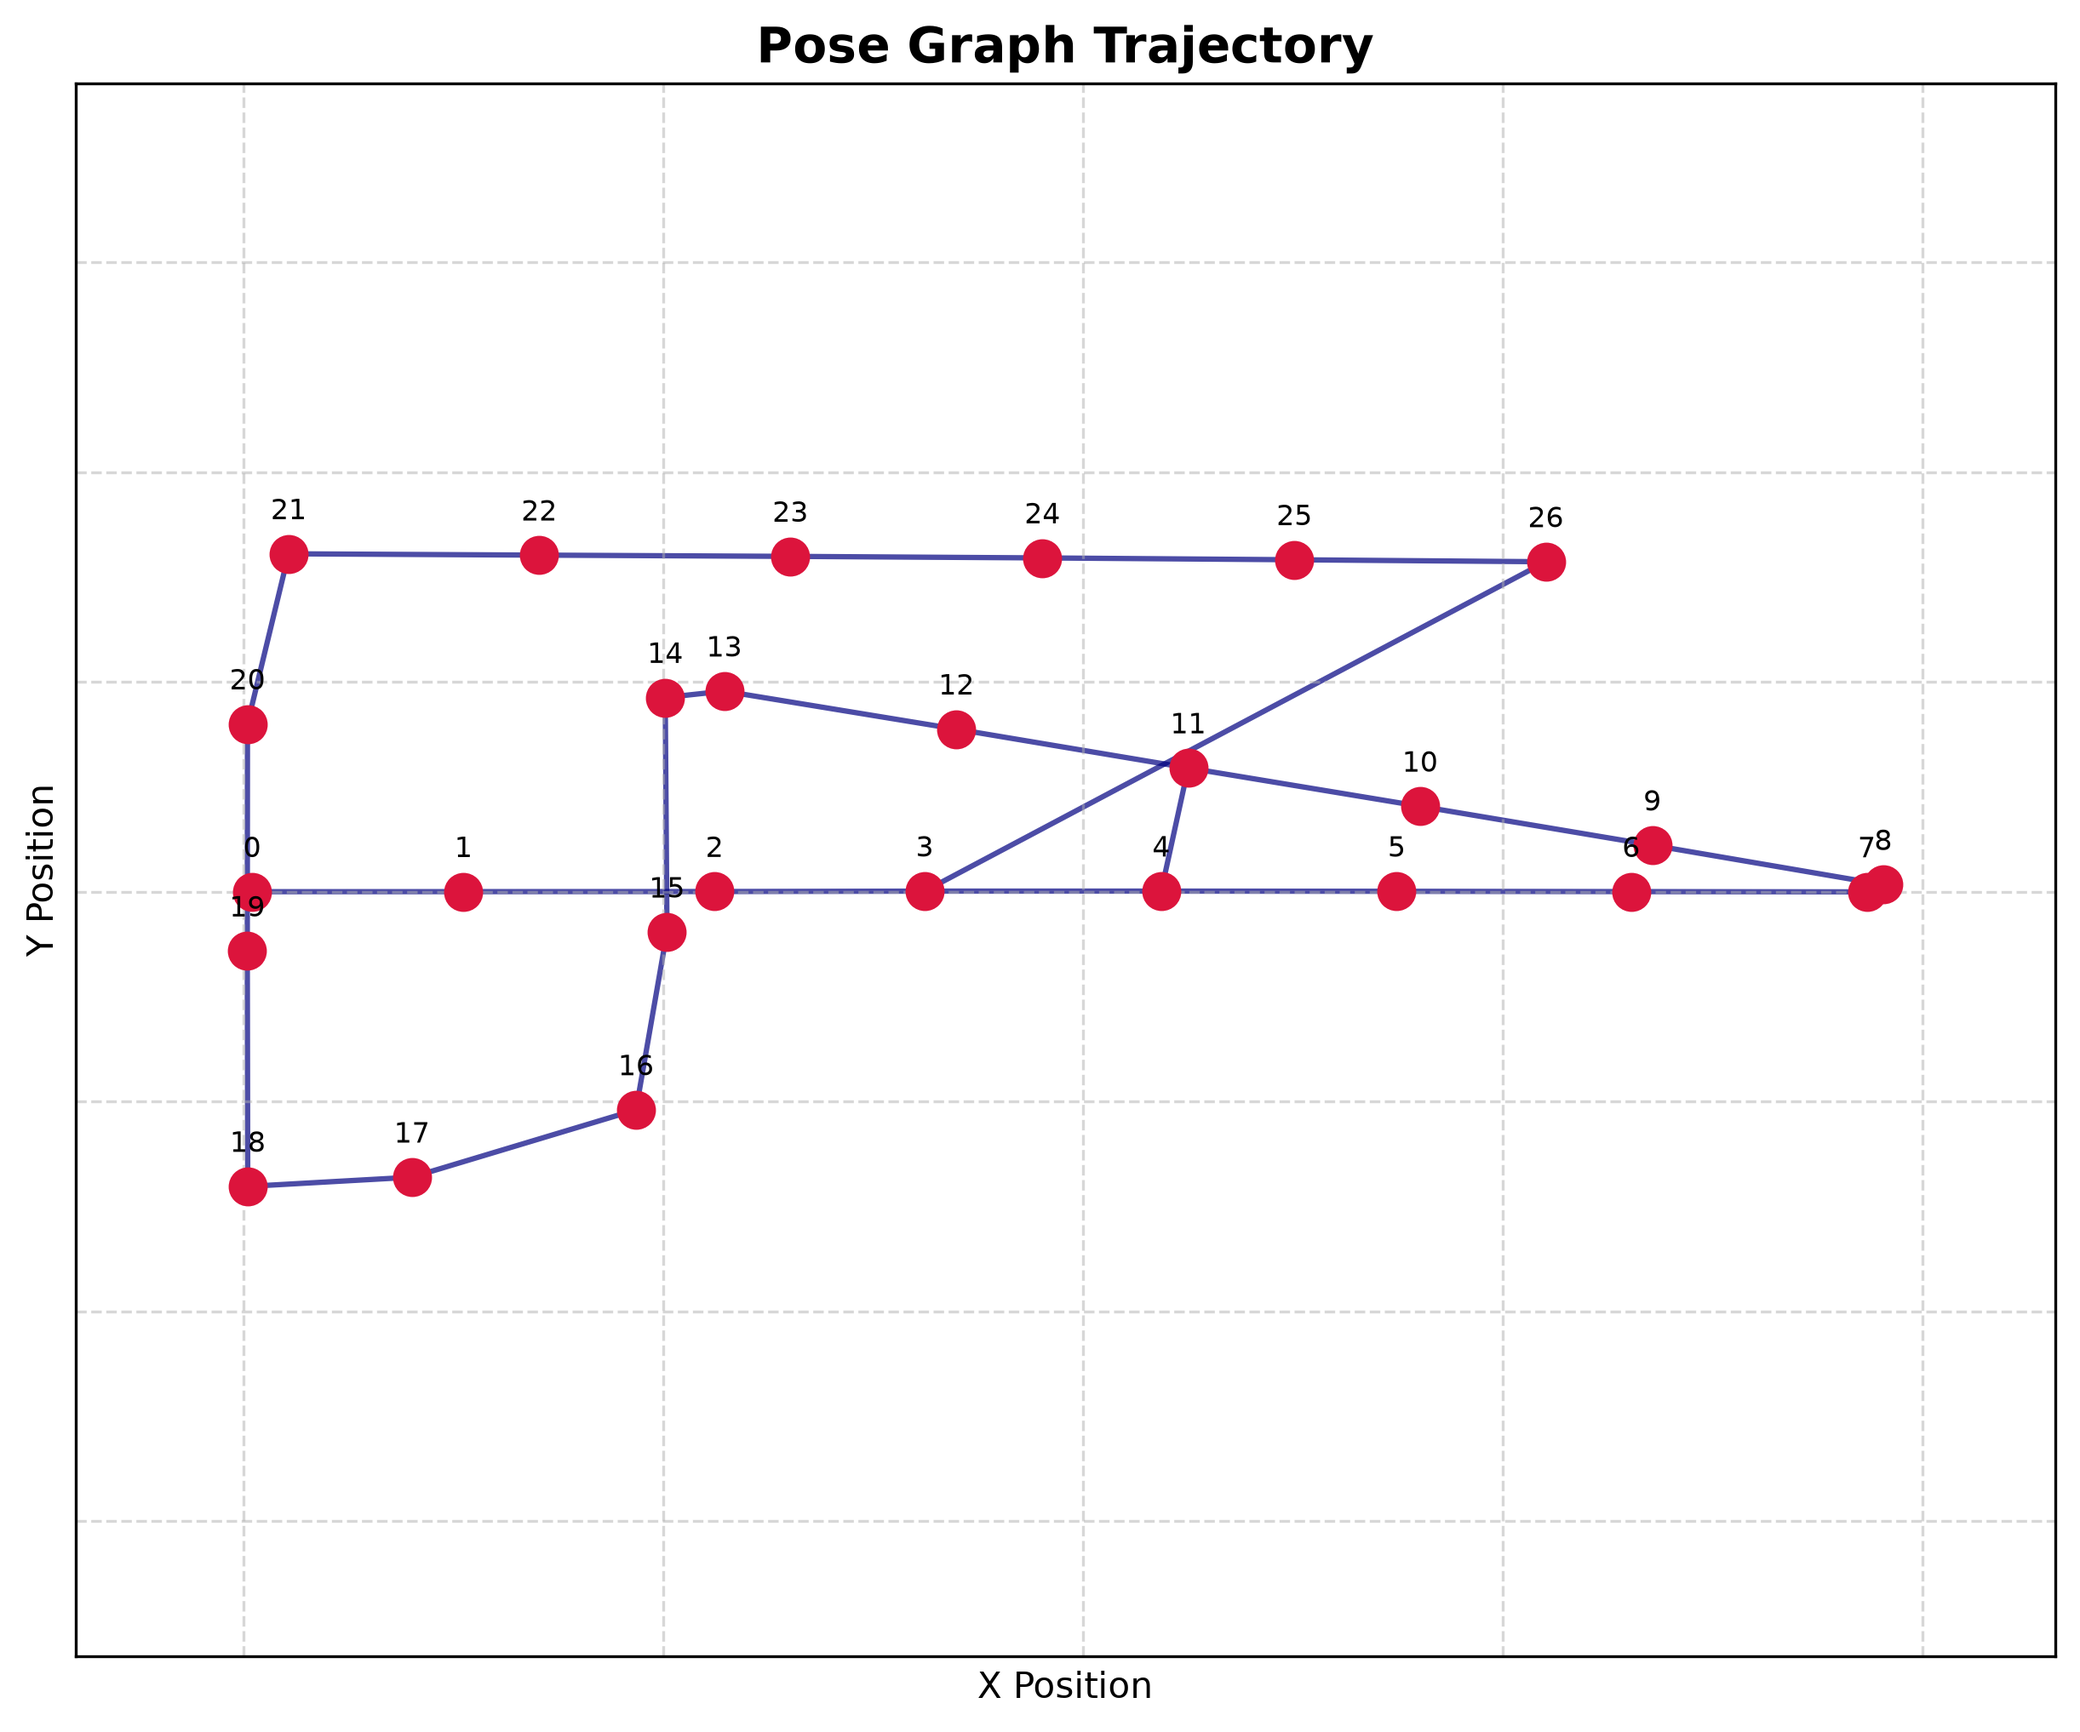
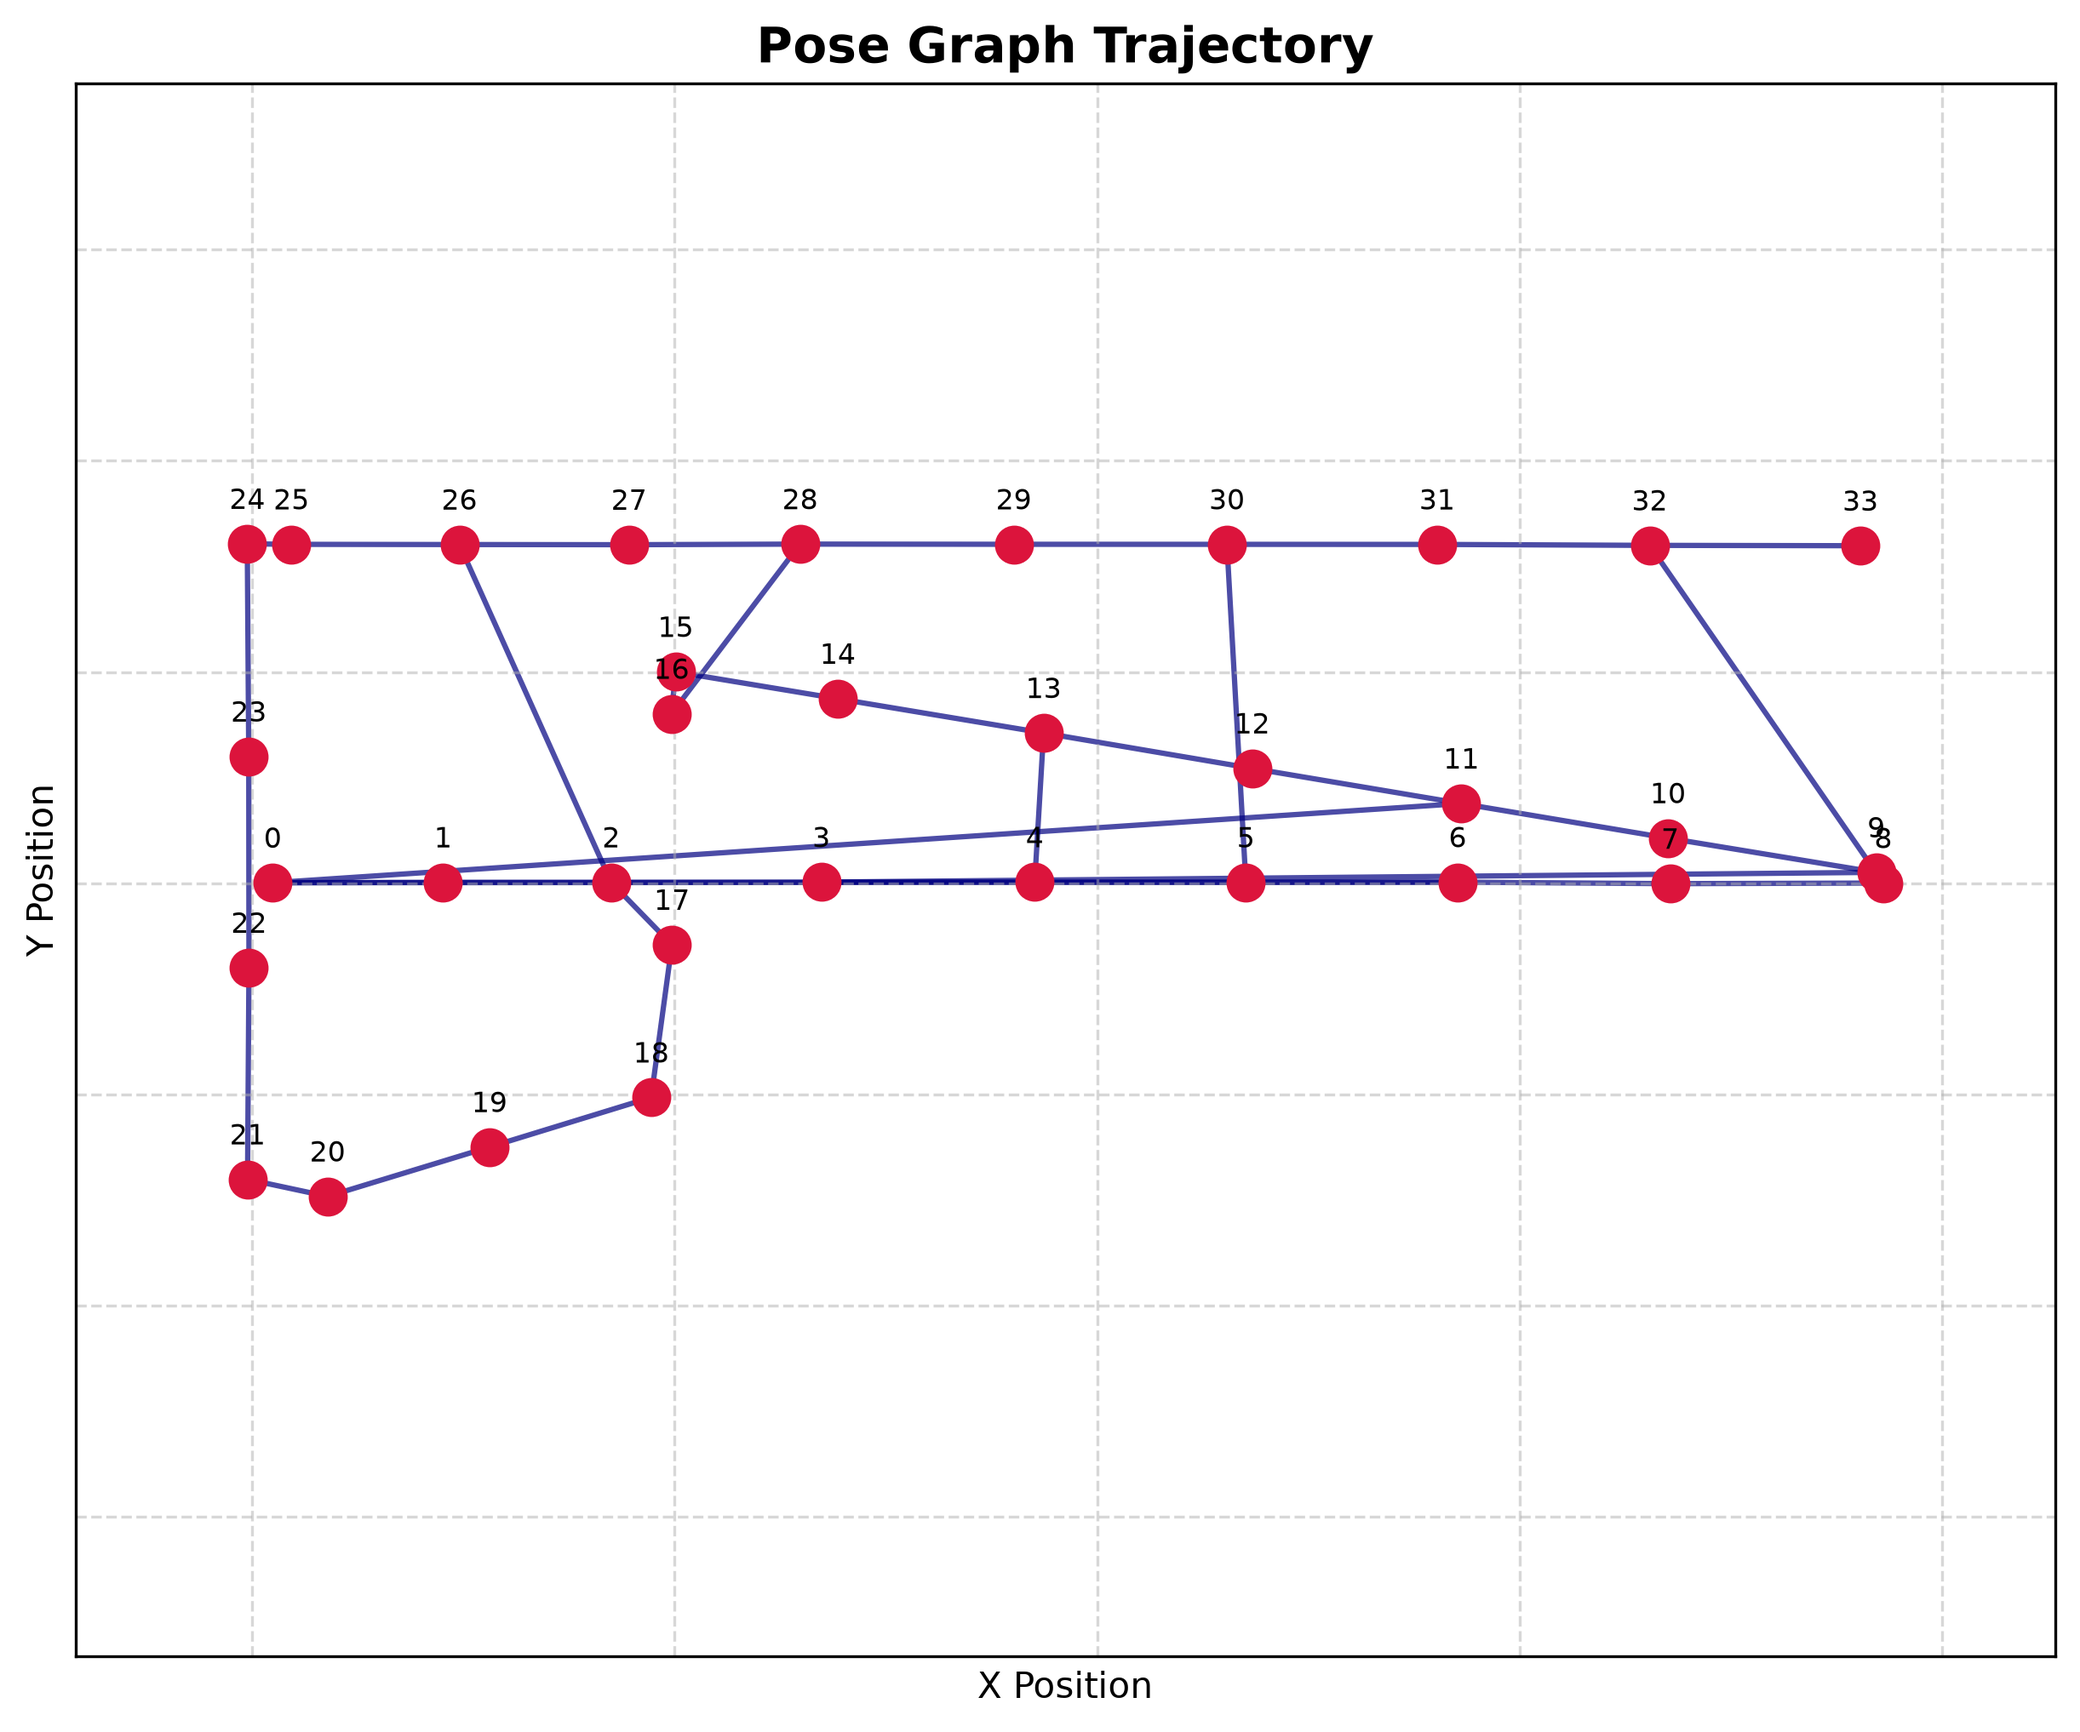
docs update

diff --git a/README.md b/README.md
@@ -8,19 +8,32 @@ Trajectories (red - real, green - noisy odometry, blue - SLAM-based trajectory, 
 
 Optimized pose graph with loop closures
 
-![slam pose graph](./demo_results/slam_graph.png)
-
+![slam pose graph](./demo_results/slam_graph.png)                
 ### Tuning
 |parameter|description|default value|
 |---------|-----------|-------------|
+|**Mapping**|
+|map_resolution: float|resolution of the map, meters per pixel|0.05|
+|map_max_cells: int|number of cells that map can use at most. increasing this value may increase RAM usage|16_000_000|
+|map_occ_dec: float|decrement of log-odds map cell value when cell is occupied|0.85|
+|map_free_inc: float|increment of log-odds map cell value when cell is free|0.4|
+|map_l_min: float|min log-odds map cell value|4.0|
+|map_l_max: float|max log-odds map cell value|4.0|
+|map_initial_size: int|initial square map side size|128|
+|map_pad_cells: int|additional number of pixels added to the map when resizing to make less array reallocations|32|
 |**Graph optimization**|
 |dxy_var: float|position variance. increase if odometry is bad|0.2| 
 |dtheta_var: float|heading variance. increase if odometry is bad|np.deg2rad(3)|
+|loop_closure_edge_uncertainty: float|how much to NOT trust the loop closure edges|0.5|
+|odometry_edge_uncertainty: float|how much to NOT trust the odometry edges|1.0|
 |**Loop closure**|
 |min_chain_size: int|minimum topological distance from last vertex for other vertex to take part in loop closuring. increasing this will make sparser loops|5| 
 |loop_closure_max_dist: float|max loop searching distance. increasing this can make more loops but they can be worse in quality. may decrease performance|0.7|
+|loop_closure_max_ang: float|max loop searching angle, same as loop_closure_max_dist|np.deg2rad(40)|
 |loop_accept_fitness: float|point cloud overlap threshold for making loop in fine search. decreasing this will make more loops with significantly lower loop quality|0.7|
 |coarse_search_max_candidates: int|increasing will search for more coarse candidates. loop closure could be better. increases compute time|5|
+|loop_closure_min_correction: float|min position correction of graph vertex to accept loop closure|0.04|
+|loop_closure_min_angle_correction: float|min rotation correction of graph vertex to accept loop closure|np.deg2rad(3)|
 |**Vertices and sub-vertex estimation**|
 |min_distance_to_vertex: float|min distance from previous vertex to create a new one|0.4|
 |min_angle_to_vertex: float|min angle delta from previous vertex to create a new one|np.deg2rad(10)|
@@ -30,10 +43,26 @@ Optimized pose graph with loop closures
 |vertex_accept_fitness: float|point cloud overlap threshold for making a new vertex. decreasing this could make more vertices with lower quality|0.6| 
 |vertex_rmse_tolerance: float|max RMSE between scans for vertex to be accepted|0.2|
 |**Keyframe matching**|
+|noise_trans_threshold: float|max between-frame odometry translation to consider movement as pure noise to prevent drift|0.005|
+|noise_rot_threshold: float|max between-frame odometry rotation to consider movement as pure noise to prevent drift|np.deg2rad(0.2)|
 |keyframe_match_distance_tolerance: float|max distance deviation between ICP-estimated and odometry-estimated transforms between two vertex keyframes|0.15|
 |keyframe_match_angle_tolerance: float|max angle difference between ICP-estimated and odometry-estimated transforms between two vertex keyframes|np.deg2rad(5)|
 |**ICP**|
 |matcher_max_correspondence_distance: float|max point correspondence distance|0.5|
 |matcher_mode: str|ICP mode, one of: 'ICP', 'GICP', 'PLANE_ICP'|"GICP"|
+|**Probabilistic Location**|
+|use_probabilistic_loc: bool|whether to use probabilistic location estimation on new session start|True|
+|loc_max_tries: int|max tries to find current position, sets position to [0, 0, 0] if expired|16|
+|loc_max_hypotheses: int|max number of location hypotheses|8|
+|loc_init_min_fitness: float|minimum fitness to consider hypothesis acceptable|0.3|
+|loc_commit_prob: float|absolute posterior for the "winner" location|0.85|
+|loc_commit_margin: float|log-odds vs. runner-up|3.0|
+|loc_min_scans: int|evidence before commit location|3|
+|loc_rmse_sigma: float|ICP likelihood parameter|0.05|
+|loc_odom_sigma: float|m, for odometry translation consistency|0.3|
+|loc_odom_ang_sigma: float|rad, for odometry angle consistency|np.deg2rad(10)|
+|loc_prune_thresh: float|prune threshold|1e-3|
+|loc_dup_dist: float|m, dedup threshold|0.5|
+|loc_dup_ang: float|rad, dedup angle threshold|np.deg2rad(30)|
 |**debugging**|
 |verbose: bool|log useful data|True|
